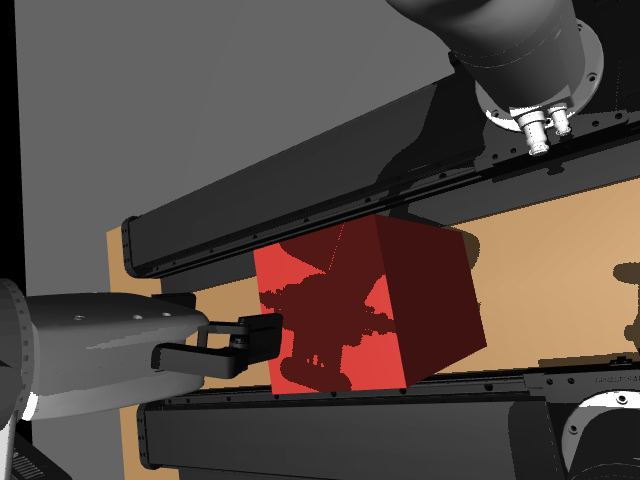
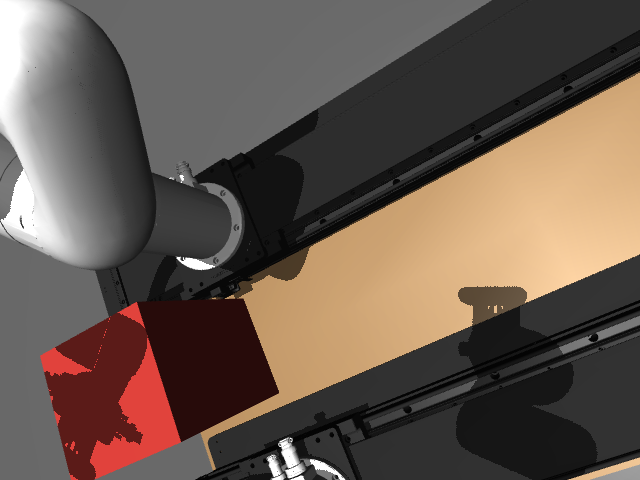
docs: mavis_v2 in the lab's own frame (outer edge / right end), guardrail lists incl. mavis_v2_obstacle_descend, renders facing the outer edge

diff --git a/docs/design/03-sim.md b/docs/design/03-sim.md
@@ -197,32 +197,35 @@ the debug inflation of 0.025 m. The scene author therefore declares them:
 | **`mavis_v2`** | 2 | **the lab cell**: digital-twin reference for the real arms and a sim scenario |
 
 **`mavis_v2`** (Apollo lab, tape-measured 2026-09-02; the YAML header carries
-the same numbers — edit there). World frame: z-up, origin on the floor under
-the table centre; the operator stands at the *front* (−Y) where the camera arm's
-rail is, +Y is toward the *back* (gripper arm's rail), +X is toward the *right*
-end. The two rails hug the two long edges; the workspace with the obstacle is
-the channel between them.
+the same numbers — edit there). World frame follows the lab's own definitions:
+z-up, origin on the floor under the table centre; **+Y = the outer edge**, i.e.
+the long edge the arms' end effectors face at rail zero (the camera rail runs
+along it); standing on the inner side and *facing the outer edge*, **+X is to
+the right** — the end where both arms sit at rail zero and where the obstacle
+is. Both rails are mounted the same way (arm base +X toward the outer edge,
+thin cable-tray plate toward the interior, zero at the right end, travel toward
+−X). The workspace is the channel between the rails.
 
 | element | measurement | descriptor value |
 |---|---|---|
-| table | 1.215 × 0.63 × 0.03 m, top at 0.735 m | box half `[0.6075, 0.315, 0.015]` at z 0.72 |
-| rails | two identical rails parallel to the long edge, feet on the table, mounted the same way; zero at the right end, travel toward −X | `base_quat` yaw +90° `[0.7071, 0, 0, 0.7071]`; z = 0.735 + 0.107188 |
-| front rail (`view`, camera-only) | outer edge 2 cm from the front edge | y0 = −0.315 + 0.02 + 0.120 = **−0.175** |
-| back rail (`grip`, gripper + wrist cam) | 39.5 cm behind the front rail (base lines) | y0 = −0.175 + 0.395 = **0.220**; far edge 2.3 cm from the back edge |
-| channel | between the rail bodies | y ∈ [−0.1026, 0.100] (20.3 cm with the 19.2 cm mavis mesh; the front carriage protrudes 1.8 cm into it) |
-| rail zero | arm bases 14.5 cm from the right edge at q = 0 (literal: base centre) | x0 = 0.6075 − 0.145 = **0.4625** (base edge → 0.3995, carriage edge → 0.3645); the mavis mesh's zero end then overhangs the table end by 10 cm — unverified |
-| obstacle | 0.16 × 0.16 × 0.26 m box in the channel, left of the arms; +X face 29.2 cm from the right edge | half `[0.08, 0.08, 0.13]` at `(0.2355, 0.0075, 0.865)` (centred in the channel's free width) |
-| keyframe | both rails at zero; gripper arm turned round (j1 ≈ π) with the TCP 11 cm above the box top, tool down; camera 1.4 m up looking at the box | audit-clean at δ = 0.008 and 0.025 |
-| `allowed_pairs` | carriages ↔ table (24 mm by construction) | two pairs |
+| table | 1.215 × 0.62 × 0.03 m, top at 0.735 m | box half `[0.6075, 0.31, 0.015]` at z 0.72 |
+| rails | identical, same orientation; zero at the right end, travel toward −X | `base_quat` yaw +90° `[0.7071, 0, 0, 0.7071]`; z = 0.735 + 0.107188 |
+| camera rail (`view`, camera-only) | outer edge 2.6 cm from the table's outer edge | y0 = 0.31 − 0.026 − 0.0724 = **0.2116** |
+| gripper rail (`grip`, gripper + wrist cam) | 39.5 cm inward (base lines) | y0 = 0.2116 − 0.395 = **−0.1834**; plate edge 0.66 cm from the inner table edge |
+| channel | between the rail bodies | y ∈ [−0.111, 0.0916] (20.3 cm with the 19.2 cm mavis mesh) |
+| rail zero | arm base *right side* 14 cm from the right edge | x0 = 0.6075 − 0.14 − 0.063 = **0.4045** (base centre); the mavis mesh's zero end overhangs the table end by 4.5 cm — unverified |
+| obstacle | 0.16 × 0.16 × 0.24 m, flush against the right edge, in the channel beside the gripper carriage; near face ~27.5 cm in from the outer edge | half `[0.08, 0.08, 0.12]` at `(0.5275, −0.0084, 0.855)`, i.e. depth 23.8–39.8 cm: placed 0.5 cm clear of the (mesh) carriage sweep because 27.5–43.5 would overlap the mesh rail body by 1.4 cm and the carriage by 3.2 cm |
+| keyframe | rails at zero; gripper hovering over the obstacle, tool down, TCP 14.5 cm above its top; camera arm turned round (j1 ≈ π) looking into the channel | audit-clean at δ = 0.008 and 0.025 |
+| `allowed_pairs` | carriages ↔ table (24 mm by construction); gripper carriage ↔ obstacle (slides past it 0.5 cm away) | three pairs |
 
 Rail mesh facts used (mavis asset, unverified vs hardware — phase-09 item):
 across-axis extent `[−0.120, +0.0724]` m about the base line (the −0.120 side is
 a 3 mm cable-tray plate; main body 14.2 cm), carriage `[−0.080, +0.090]` across /
 `[−0.098, +0.088]` along, 1.0926 m long with 0.2476 m beyond the carriage at
-q = 0. Open items for the phase-09 calibration: the 14.5 cm reference (base
-centre / base edge / carriage edge), the real rail width (a narrower rail widens
-the channel), whether the box touches a rail ("紧卡"), which end carries the
-motor housing, and the 2 / 42 / 39.5 cm readings (5 mm apart).
+q = 0. Open items for the phase-09 calibration: the real rail/carriage width
+(the obstacle in the lab sits against the gripper rail at ~27.5 cm depth, which
+only fits if the real rail is ~1.5–3 cm narrower than the mesh), the rail's
+zero-end overhang, and whether the 14 cm reads to the base or to the carriage.
 
 ## 5. Scene composition via `mujoco.MjSpec`
 
@@ -647,7 +650,9 @@ matching `target_pair_prefixes` counts as a real-contact failure.
 
 Scenarios: `env_table_descend` (−z into table), `env_pedestal_sweep` (+x
 into pedestal) for arm↔environment; `cross_arm_head_on` (+y toward arm1),
-`cross_arm_rail_converge` (rail drive toward arm1) for arm↔arm.
+`cross_arm_rail_converge` (rail drive toward arm1) for arm↔arm;
+`mavis_v2_obstacle_descend` (the lab cell's gripper arm −z onto its obstacle,
+§4.3) as the deployment cell's own regression.
 
 **Assertion contract** (11-safety §5.1 — all must hold; failures name the
 scenario):
@@ -663,9 +668,9 @@ scenario):
   `max |q_sent(t) − q_sent(t_block)| ≤ 1e-4` (rad; rail slot m) per driven arm.
 - **A4 Escape works**: after twist reversal, `kind="cleared"` within 100
   ticks, min pair clearance non-decreasing (tol 1e-4 m), motion resumes.
-- **A5 Layer independence**: each scenario runs twice — IK avoidance ON:
-  graze variants produce **0 blocked events** (L2 glides); OFF
-  (`--no-ik-avoidance`): the gate alone must still satisfy A1–A4.
+- **A5 Layer independence**: each scenario runs three times — gate-only main
+  (`--no-ik-avoidance`: L1 alone must satisfy A1–A4), IK-on main, and the
+  IK-on graze variant, which must produce **0 blocked events** (L2 glides).
 
 CI wiring: `uv run python -m apollo_xarm7_sim.tools.guardrail_check --all` in
 sim CI + runtime CI (integration job, both extras); < 30 s total (virtual
@@ -738,7 +743,7 @@ No hardware anywhere; the only split is CPU-only vs EGL-capable. Markers:
 | Twin (§8) | inflation thresholds: contact appears at δ, not 1.1δ (two-arm approach sweep); link_base↔link1 excluded; grasp whitelist; `check` restores measured qpos; clearance vs analytic sphere distance; audit sweep (no false alarms at δ=0.025) |
 | IK (§9) | circle-tracking servo 500 ticks: pos err < 0.5 mm, no limit violations; rail-preference (lateral target moves joints, rail < 1 cm); unreachable target sets `diverged` within 10 ticks; ECAA weight slews & floors; flat-tolerance frees roll; row cap respected (perf: p99 < 1 ms with 3 arms + env) |
 | Planner (§10) | two-arm position swap on `dual_rail_tabletop`: sequential plan succeeds within ≤2 orderings, edges valid at `max_step_rad` resolution; impossible variant returns `goal_in_collision` with the correct pair; start-inside-inflation hysteresis escapes; waypoints all pass `check_config` |
-| Guardrail (§11) | all four scenarios × {IK avoidance on, off}, full A1–A5 contract (11-safety §5.1) — this IS the safety CI |
+| Guardrail (§11) | all five scenarios × {IK avoidance on, off}, full A1–A5 contract (11-safety §5.1) — this IS the safety CI |
 | Semantics (§13) | `test_mujoco_semantics.py` suite |
 | Rendering (§7) | egl: 640×480 frame non-black & correct shape; stream fps pacing; `show_inflation` toggles group-3 pixels; renderer crash isolates stream |
 | Interfaces | `SimWorkcell`/`DigitalTwin`/`MinkIKSolver` satisfy core ABCs (isinstance + signature check via `inspect`) |

diff --git a/docs/design/11-safety-collision.md b/docs/design/11-safety-collision.md
@@ -151,7 +151,9 @@ def main(argv: list[str]) -> int: ...      # exit 0 = all assertions pass; nonze
 
 Scenarios: `env_table_descend` (−z into table), `env_pedestal_sweep` (+x into
 pedestal) for arm↔environment; `cross_arm_head_on` (+y toward arm1),
-`cross_arm_rail_converge` (rail drive toward arm1) for arm↔arm. Each builds a
+`cross_arm_rail_converge` (rail drive toward arm1) for arm↔arm;
+`mavis_v2_obstacle_descend` (the lab cell's gripper arm onto its obstacle, 03-sim
+§4.3) as the deployment cell's own regression. Each builds a
 `safety_debug` session programmatically (no server), injects a synthetic `TeleopInput`
 holding the twist, and steps the control loop tick-by-tick. **Ground truth** = the
 *physics* model with zero inflation: any tick with a `mj_collision` contact `dist <=
@@ -169,9 +171,9 @@ holding the twist, and steps the control loop tick-by-tick. **Ground truth** = t
   `max |q_sent(t) − q_sent(t_block)| ≤ 1e-4` (rad; rail slot m) per driven arm.
 - **A4 Escape works**: after twist reversal, `kind="cleared"` within 100 ticks, min
   pair clearance non-decreasing (tol 1e-4 m), motion resumes.
-- **A5 Layer independence**: each scenario runs twice — IK avoidance ON: graze
-  variants produce **0 blocked events** (L2 glides); OFF (`--no-ik-avoidance`): the
-  gate alone must still satisfy A1–A4.
+- **A5 Layer independence**: each scenario runs three times — gate-only main
+  (`--no-ik-avoidance`: L1 alone must satisfy A1–A4), IK-on main, and the IK-on
+  graze variant, which must produce **0 blocked events** (L2 glides).
 
 CI wiring: `uv run python -m apollo_xarm7_sim.tools.guardrail_check --all` in sim CI +
 runtime CI (integration job, both extras); < 30 s total (virtual ticks, 0.75 ms/tick max).

diff --git a/docs/prompts/phase-09-todo.md b/docs/prompts/phase-09-todo.md
@@ -31,13 +31,11 @@
 - [ ] 物理测量项：6 个示教位姿的卷尺实测 clearance（对 twin ≤4 mm）、
       各臂 `base_in_world` 与 rail 原点实测、相机外参标定（标定板）。
 - [ ] **mavis_v2 场景校准**（`apollo-xarm7-sim/.../scenes/mavis_v2.yaml` 头部有全部
-      假设）：① 轨道零位（SDK 0 mm）确在台面**右端**、行程朝左，电机盒在哪一端；
-      ② "14.5 cm 到右沿"量的是基座中心（当前 x0=0.4625）还是基座边/滑块边
-      （0.3995/0.3645）——按网格，轨道右端会伸出台面 10 cm，若实物齐平说明是后者；
-      ③ 两轨间距 39.5 cm 与"gripper 轨到前沿 42 cm"差 5 mm，以实测为准；④ 实物
-      轨道宽度（mavis 网格 19.2 cm 含 3 mm 线槽板，本体 14.2）决定两轨间通道宽度
-      （当前 20.3 cm，箱子两侧仅余约 1.3 cm）；⑤ 箱子是否紧贴某条轨道（"紧卡"）、
-      底边 16 cm（口述曾说 13）；⑥ 臂法兰安装面高出台面 0.107188 m 是否属实。
+      假设）：① 实物轨道/滑块宽度——口述障碍物纵深 27.5 起、贴 gripper 轨内侧，按
+      mavis 网格（轨 19.2 cm、滑块凸出 1.8 cm）会重叠 3 cm，孪生里暂放纵深 23.8 起，
+      实测后回调；② 轨道零位端悬出长度（网格按基座右侧距右沿 14 cm 会伸出台面 4.5 cm）；
+      ③ "14 cm"量到基座还是滑块；④ 两轨 base 间距 39.5 与相机轨外沿 2.6 复核；
+      ⑤ 臂法兰安装面高出台面 0.107188 m 是否属实；⑥ 电机盒在哪一端。
 - [ ] watchdog/急停课目（拔 WS、手拍碰撞、物理急停）需要你现场触发。
 - [ ] 验收表逐项签核。
 

diff --git a/CLAUDE.md b/CLAUDE.md
@@ -36,10 +36,11 @@ clones (gitignored by the ws repo until converted to submodules).
   profiles must be matched to NICs programmatically at startup.
 - Arms may or may not have a linear track (rail); max rail travel 0.65 m.
   Presence must be auto-detected via the xArm SDK.
-- Lab cell geometry (tape-measured 2026-09-02): 1.215 × 0.63 × 0.03 m table, top
-  0.735 m above the floor; two parallel rails 39.5 cm apart hugging the long edges
-  (camera-only arm in front, gripper + wrist-cam arm behind); 0.16 × 0.16 × 0.26 m
-  obstacle in the channel between them, left of the arms' rail zero. Encoded in
+- Lab cell geometry (tape-measured 2026-09-02): 1.215 × 0.62 × 0.03 m table, top
+  0.735 m above the floor; two identical rails 39.5 cm apart along the long axis
+  (camera-only arm on the outer rail, 2.6 cm from the edge the arms face; gripper +
+  wrist-cam arm inward), zero at the right end; 0.16 × 0.16 × 0.24 m untouchable
+  obstacle flush against the right end in the channel between the rails. Encoded in
   apollo-xarm7-sim `scenes/mavis_v2.yaml` (header lists every measurement and the
   assumptions to confirm in phase-09); docs/design/03-sim.md §4.3 has the arithmetic.
 - Machine: Ubuntu 22.04, 2× RTX 4090, node 22, nmcli available. Python: core/sim/
